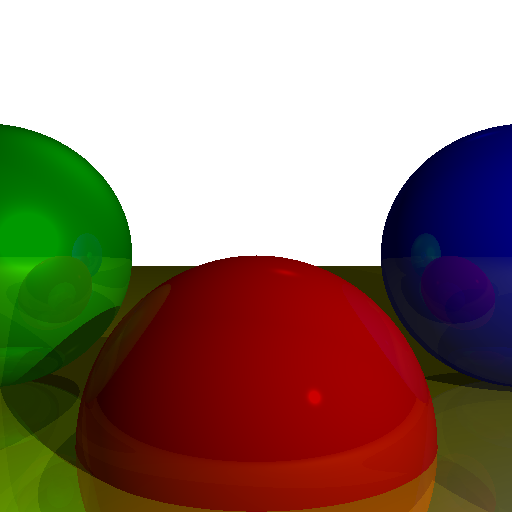
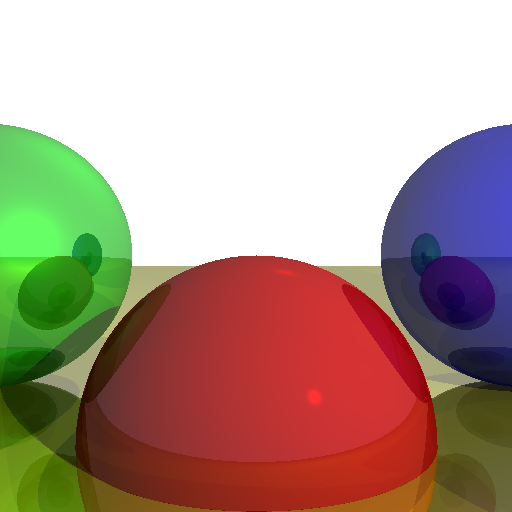
white background color

diff --git a/src/main.rs b/src/main.rs
@@ -6,7 +6,7 @@ use std::fs::File;
 use std::io::BufWriter;
 use std::path::Path;
 
-const BACKGROUND_COLOR: (u8, u8, u8, u8) = (0, 0, 0, 0);
+const BACKGROUND_COLOR: (u8, u8, u8, u8) = (255, 255, 255, 255);
 
 struct Scene {
     camera_pos: (f64, f64, f64),
